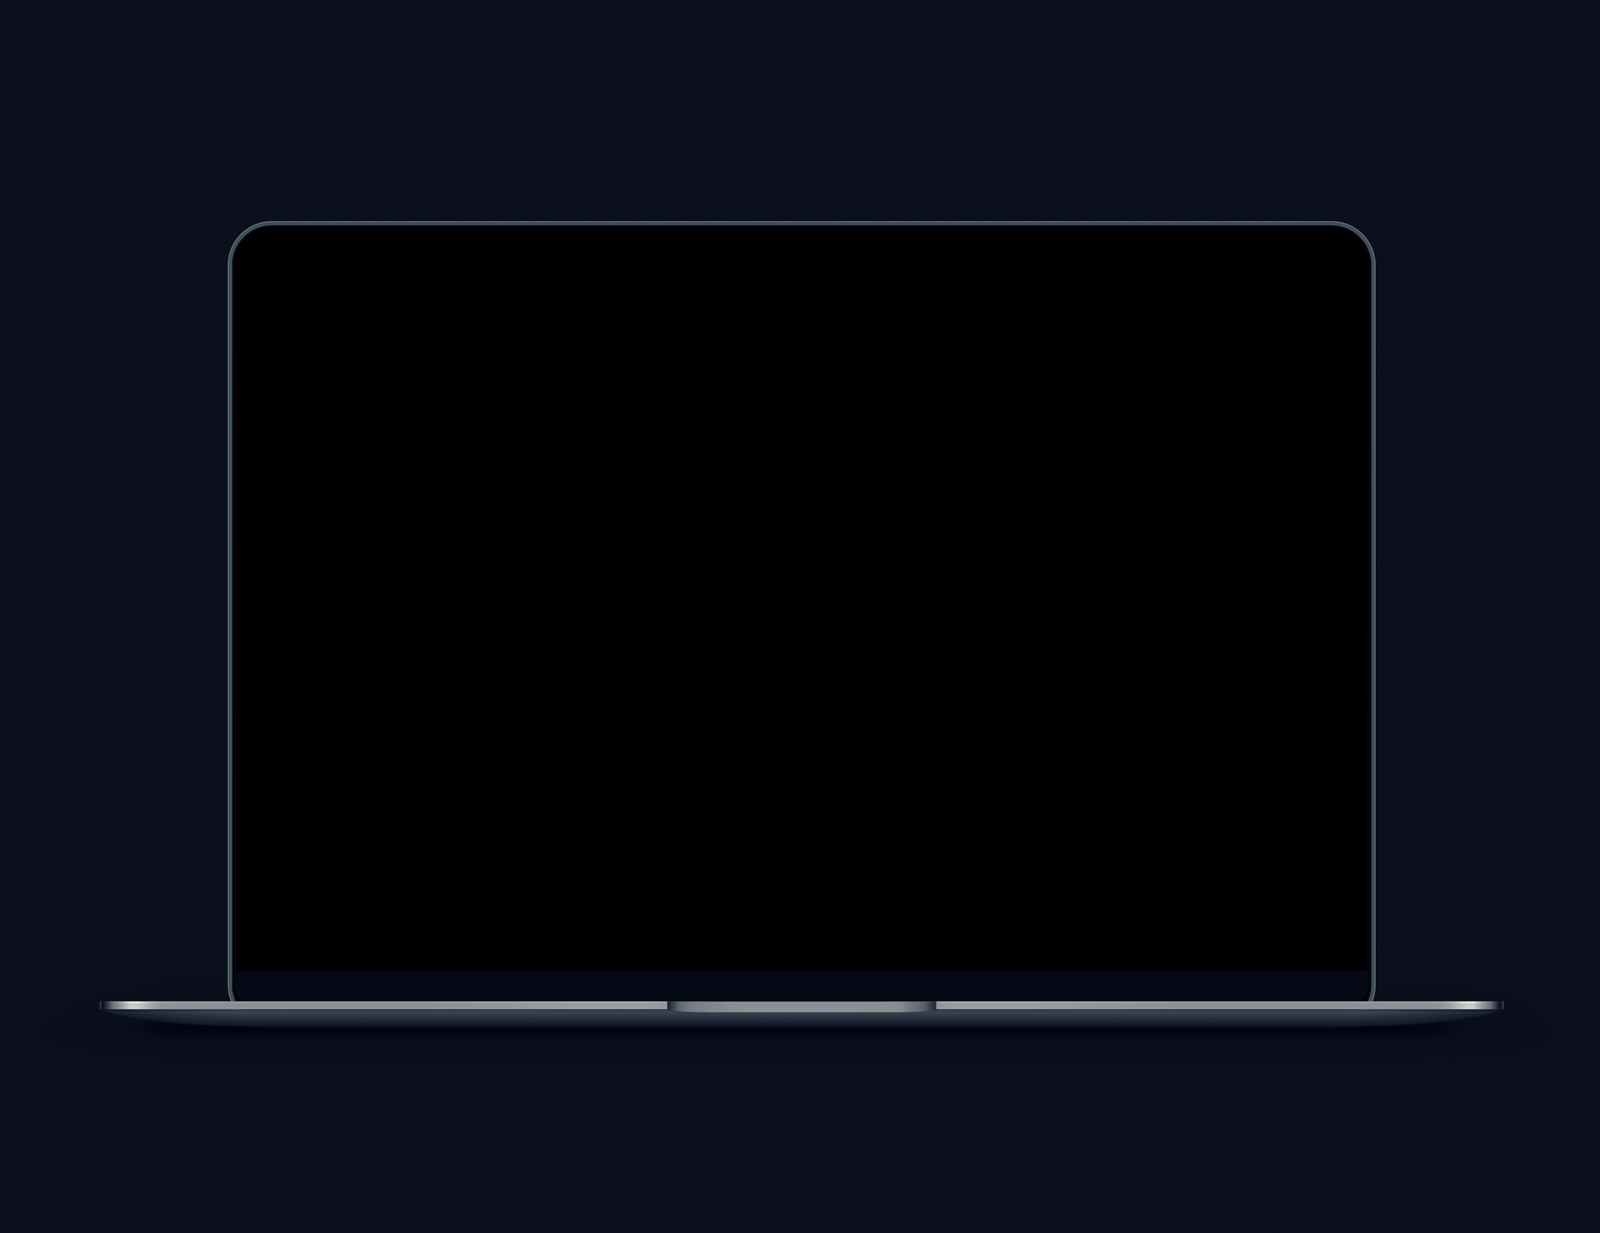
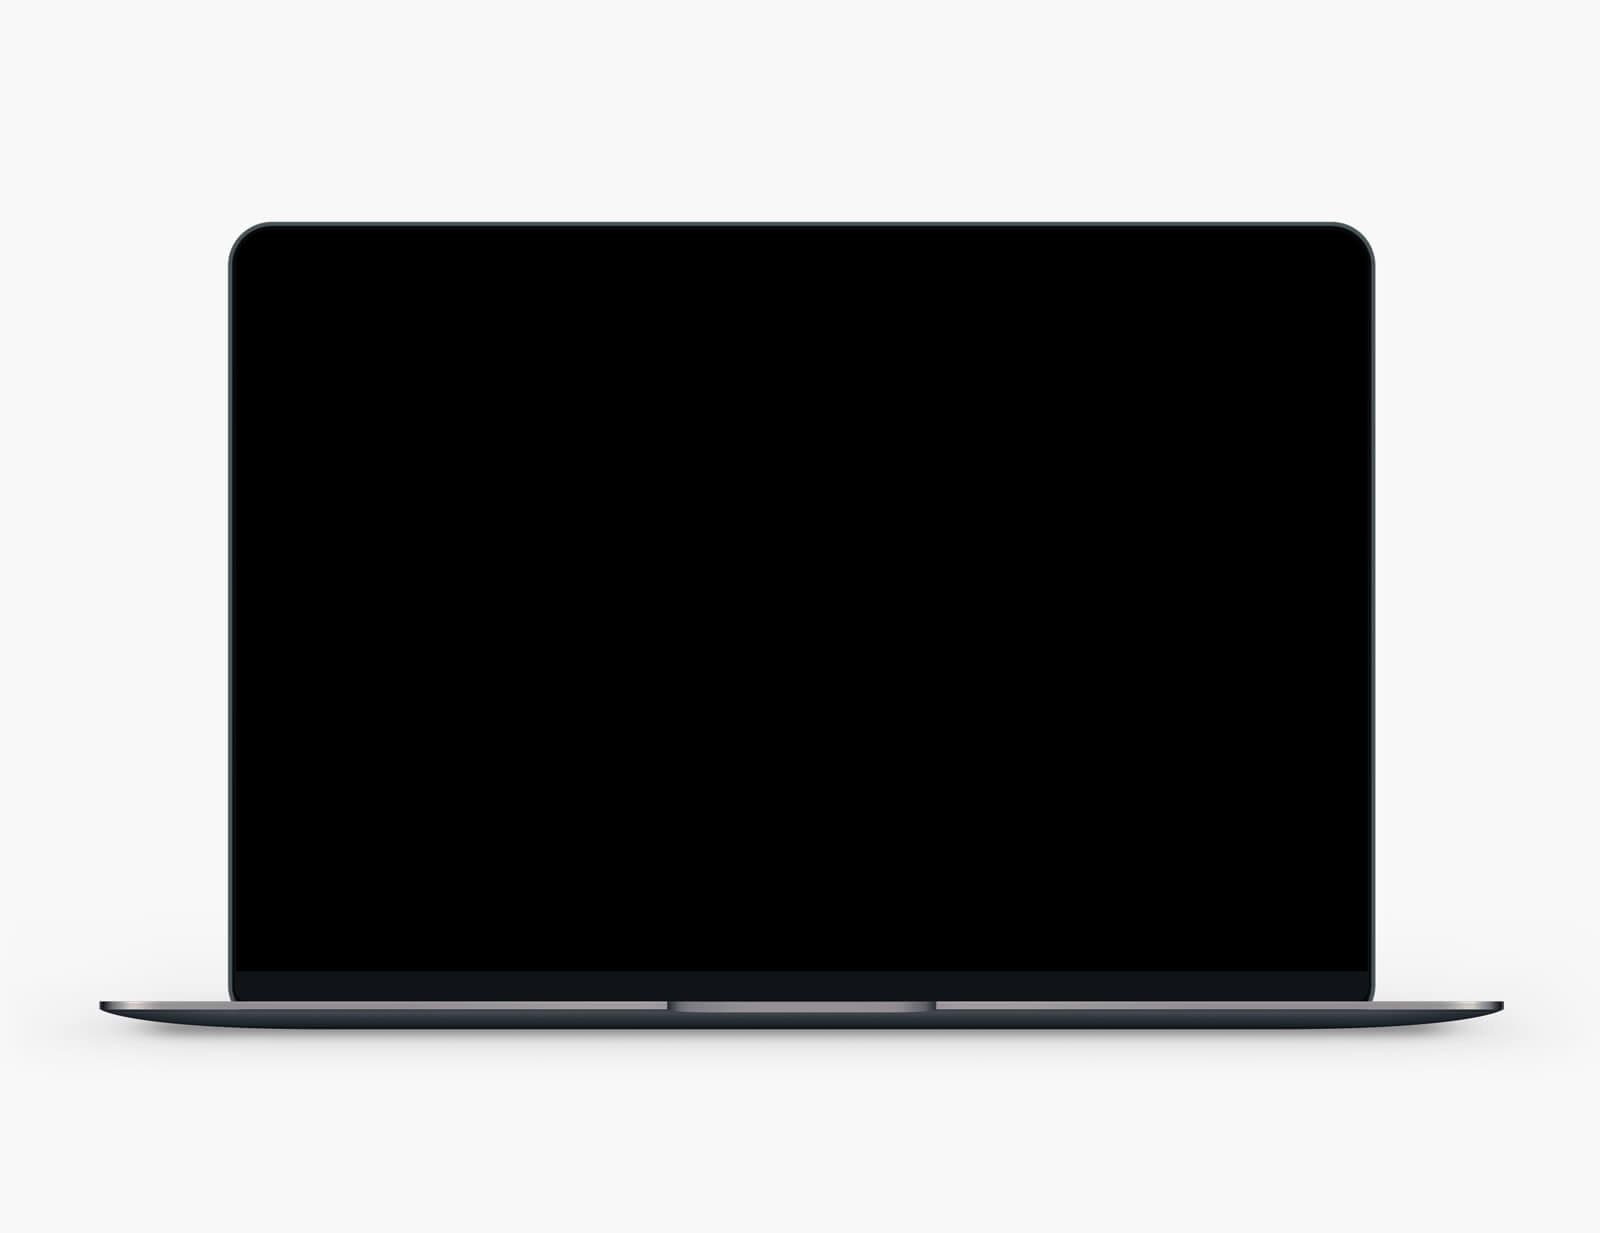
mockup-with-video img

diff --git a/app/assets/sass/main.scss b/app/assets/sass/main.scss
@@ -89,7 +89,20 @@ hr {
 
 .mockup-with-video {
   position: relative;
-  background-color: #0b0f1c;
+  background-color: #f8f8f8;
+  &::before {
+    @include beforeafter;
+    width: 100%;
+    height: 100%;
+    position: absolute;
+    top: 0;
+    left: 0;
+    mix-blend-mode: darken;
+    @at-root .future-city #{&} {
+      background-color: #eaedf7;
+      opacity: 0.5;
+    }
+  }
   > img {
     user-select: none;
     @include media-breakpoint-up(sm) {
